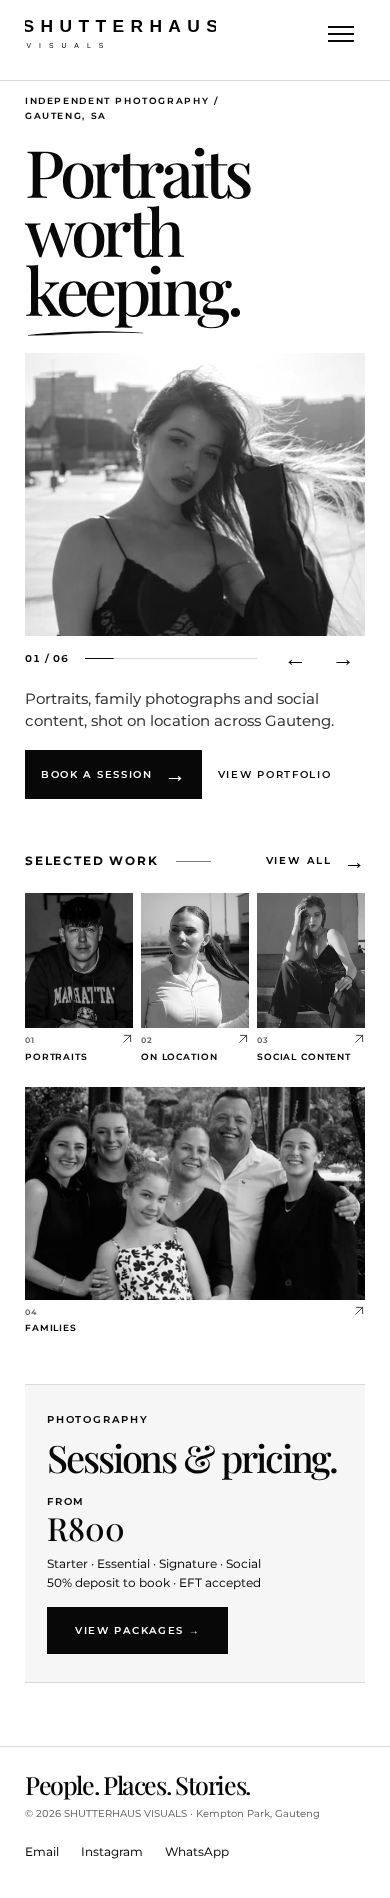
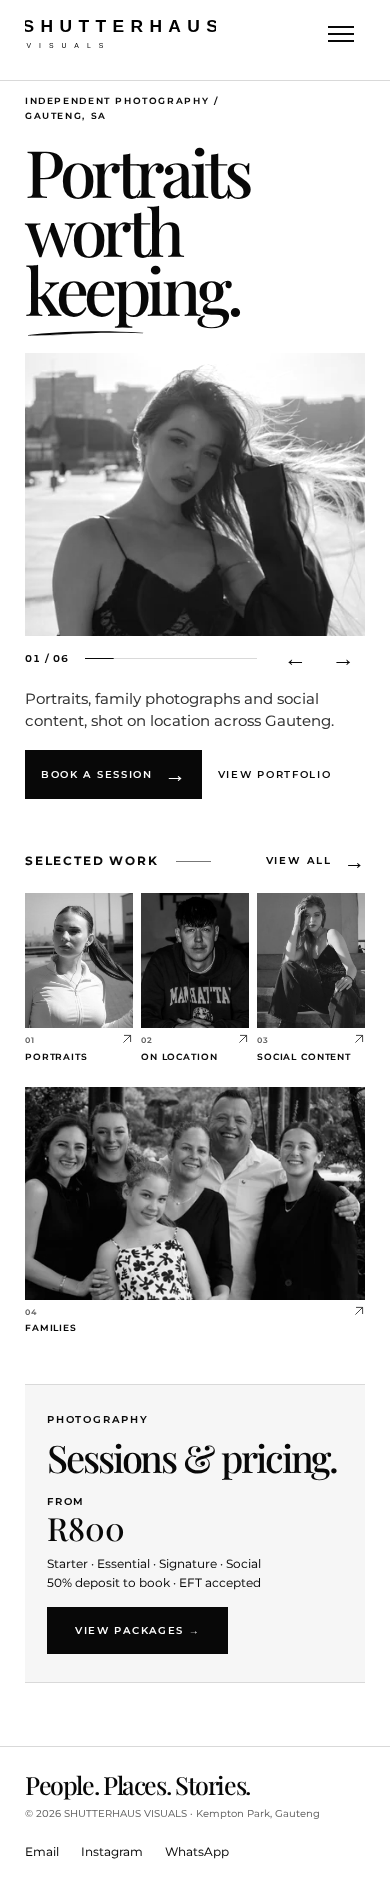
Swap the Portraits and On location photographs in Home Selected Work

Changed region(s): [[0.0615, 0.4663, 0.6462, 0.5595]]

diff --git a/index.html b/index.html
@@ -199,20 +199,7 @@
     <section class="hstrip" aria-label="Selected work">
       <div class="hstrip__head"><h2>Selected work</h2><a class="all-work" href="./portfolio.html">View all <span aria-hidden="true">→</span></a></div>
       <div class="hstrip__grid" style="--showcase-cols:4"><div class="hstrip__entry">
-      <button type="button" class="photo-trigger hstrip__item" data-cover="portraits" style="--focal:50% 2.5%" role="button" aria-label="Enlarge A seated man in a Manhattan sweatshirt looks into the camera, hands clasped">
-        <span class="cell">
-      <picture><source type="image/webp" srcset="gallery/5-img-0086-400w.webp 400w, gallery/5-img-0086-560w.webp 560w, gallery/5-img-0086-800w.webp 800w, gallery/5-img-0086-1200w.webp 1200w, gallery/5-img-0086-1600w.webp 1600w" sizes="(max-width: 759px) 46vw, (max-width: 1536px) 24vw, 350px" />
-        <source type="image/jpeg" srcset="gallery/5-img-0086-400w.jpg 400w, gallery/5-img-0086-560w.jpg 560w, gallery/5-img-0086-800w.jpg 800w, gallery/5-img-0086-1200w.jpg 1200w, gallery/5-img-0086-1600w.jpg 1600w" sizes="(max-width: 759px) 46vw, (max-width: 1536px) 24vw, 350px" />
-        <img src="gallery/5-img-0086-400w.jpg" alt="A seated man in a Manhattan sweatshirt looks into the camera, hands clasped"
-             loading="lazy" decoding="async" style="aspect-ratio:1600/2400"
-             data-full="gallery/5-img-0086.jpg" data-alt="A seated man in a Manhattan sweatshirt looks into the camera, hands clasped"
-             data-cat="portrait"
-             data-filename="5-img-0086.jpg" />
-      </picture>
-    </span></button>
-      <a class="work-caption" href="./portfolio.html?collection=portraits#edit-portraits"><small aria-hidden="true">01</small>Portraits<svg width="16" height="16" viewBox="0 0 20 20" fill="none" aria-hidden="true"><path d="M4 16 16 4M5 4h11v11" stroke="currentColor" stroke-width="1.25"/></svg></a>
-    </div><div class="hstrip__entry">
-      <button type="button" class="photo-trigger hstrip__item" data-cover="on-location" style="--focal:50% 64%" role="button" aria-label="Enlarge Portrait of a woman in a white top outdoors, hair pulled back, in bright light">
+      <button type="button" class="photo-trigger hstrip__item" data-cover="portraits" style="--focal:50% 64%" role="button" aria-label="Enlarge Portrait of a woman in a white top outdoors, hair pulled back, in bright light">
         <span class="cell">
       <picture><source type="image/webp" srcset="gallery/2-20240718114526-img-0124-400w.webp 400w, gallery/2-20240718114526-img-0124-560w.webp 560w, gallery/2-20240718114526-img-0124-800w.webp 800w, gallery/2-20240718114526-img-0124-1200w.webp 1200w, gallery/2-20240718114526-img-0124-1600w.webp 1600w" sizes="(max-width: 759px) 46vw, (max-width: 1536px) 24vw, 350px" />
         <source type="image/jpeg" srcset="gallery/2-20240718114526-img-0124-400w.jpg 400w, gallery/2-20240718114526-img-0124-560w.jpg 560w, gallery/2-20240718114526-img-0124-800w.jpg 800w, gallery/2-20240718114526-img-0124-1200w.jpg 1200w, gallery/2-20240718114526-img-0124-1600w.jpg 1600w" sizes="(max-width: 759px) 46vw, (max-width: 1536px) 24vw, 350px" />
@@ -221,6 +208,19 @@
              data-full="gallery/2-20240718114526-img-0124.jpg" data-alt="Portrait of a woman in a white top outdoors, hair pulled back, in bright light"
              data-cat="portrait"
              data-filename="2-20240718114526-img-0124.jpg" />
+      </picture>
+    </span></button>
+      <a class="work-caption" href="./portfolio.html?collection=portraits#edit-portraits"><small aria-hidden="true">01</small>Portraits<svg width="16" height="16" viewBox="0 0 20 20" fill="none" aria-hidden="true"><path d="M4 16 16 4M5 4h11v11" stroke="currentColor" stroke-width="1.25"/></svg></a>
+    </div><div class="hstrip__entry">
+      <button type="button" class="photo-trigger hstrip__item" data-cover="on-location" style="--focal:50% 2.5%" role="button" aria-label="Enlarge A seated man in a Manhattan sweatshirt looks into the camera, hands clasped">
+        <span class="cell">
+      <picture><source type="image/webp" srcset="gallery/5-img-0086-400w.webp 400w, gallery/5-img-0086-560w.webp 560w, gallery/5-img-0086-800w.webp 800w, gallery/5-img-0086-1200w.webp 1200w, gallery/5-img-0086-1600w.webp 1600w" sizes="(max-width: 759px) 46vw, (max-width: 1536px) 24vw, 350px" />
+        <source type="image/jpeg" srcset="gallery/5-img-0086-400w.jpg 400w, gallery/5-img-0086-560w.jpg 560w, gallery/5-img-0086-800w.jpg 800w, gallery/5-img-0086-1200w.jpg 1200w, gallery/5-img-0086-1600w.jpg 1600w" sizes="(max-width: 759px) 46vw, (max-width: 1536px) 24vw, 350px" />
+        <img src="gallery/5-img-0086-400w.jpg" alt="A seated man in a Manhattan sweatshirt looks into the camera, hands clasped"
+             loading="lazy" decoding="async" style="aspect-ratio:1600/2400"
+             data-full="gallery/5-img-0086.jpg" data-alt="A seated man in a Manhattan sweatshirt looks into the camera, hands clasped"
+             data-cat="portrait"
+             data-filename="5-img-0086.jpg" />
       </picture>
     </span></button>
       <a class="work-caption" href="./portfolio.html?collection=on-location#edit-on-location"><small aria-hidden="true">02</small>On location<svg width="16" height="16" viewBox="0 0 20 20" fill="none" aria-hidden="true"><path d="M4 16 16 4M5 4h11v11" stroke="currentColor" stroke-width="1.25"/></svg></a>

diff --git a/src/pages.ts b/src/pages.ts
@@ -726,8 +726,15 @@ export function homePage(photos: Photo[], _cols: number): string {
       <button type="button" data-step="1" aria-label="Next featured photograph"><span aria-hidden="true">→</span></button>
     </div><p class="hero__notice" role="status"></p>${slides.map(p => `<template data-slide="${escapeHtml(p.id)}">${coverPicture(p)}</template>`).join("")}` : "";
 
-  const selectedWork = [...strip].sort((a, b) => Number(frameLabel(a) === "Families") - Number(frameLabel(b) === "Families")).map((photo, index) => {
-    const label = frameLabel(photo);
+  const portraitCover = strip.find(photo => photo.filename === WORK_EDITS[0].cover);
+  const locationCover = strip.find(photo => photo.filename === WORK_EDITS[1].cover);
+  const selectedWork = [...strip].sort((a, b) => Number(frameLabel(a) === "Families") - Number(frameLabel(b) === "Families")).map((slot, index) => {
+    let photo = slot;
+    if (portraitCover && locationCover) {
+      if (slot === portraitCover) photo = locationCover;
+      if (slot === locationCover) photo = portraitCover;
+    }
+    const label = frameLabel(slot);
     const edit = WORK_EDITS.find(choice => choice.label === label);
     const title = `<small aria-hidden="true">${String(index + 1).padStart(2, "0")}</small>${escapeHtml(label)}`;
     return `<div class="hstrip__entry">

diff --git a/tests/public.spec.ts b/tests/public.spec.ts
@@ -160,7 +160,9 @@ test('collection covers preserve the pictured faces on phones and wide screens',
     const scale = (css.objectFit === 'contain' ? Math.min : Math.max)(width/image.naturalWidth, height/image.naturalHeight);
     const w = image.naturalWidth*scale, h = image.naturalHeight*scale;
     const left = padLeft+(width-w)*x, top = padTop+(height-h)*y;
-    const [x1, y1, x2, y2] = bounds[id as keyof typeof bounds];
+    const subject = image.dataset.filename === '2-20240718114526-img-0124.jpg' ? 'on-location'
+     : image.dataset.filename === '5-img-0086.jpg' ? 'portraits' : id;
+    const [x1, y1, x2, y2] = bounds[subject as keyof typeof bounds];
     return {id,inside: left+w*x1 >= -1 && top+h*y1 >= -1 && left+w*x2 <= rect.width+1 && top+h*y2 <= rect.height+1};
    }), bounds);
    expect(visibleFaces.filter(photo => !photo.inside), route + ' at ' + width).toEqual([]);
